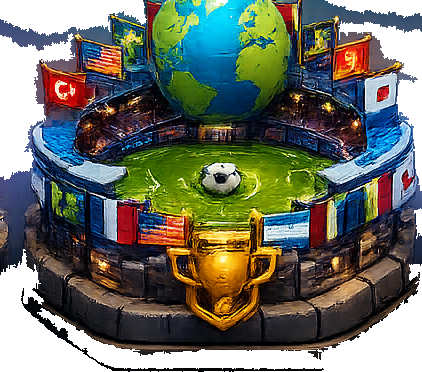
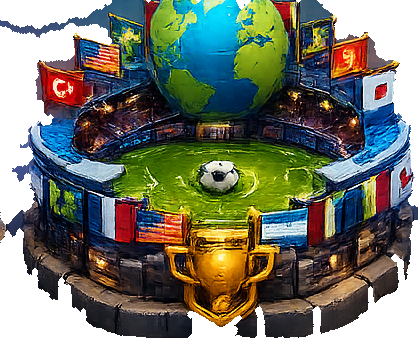
ui: de-halo arena cutouts + tighter shadow; stronger cross-hatch bg pattern
- Re-cut arenas with 2px edge erosion → no grey halo / "uncut photo" ring
- Arena shadow: tight contact ellipse (not a big haze behind)
- Background: visible diamond cross-hatch pattern (CR-like)

diff --git a/app/src/screens.tsx b/app/src/screens.tsx
@@ -219,8 +219,9 @@ export function ScreenBg() {
             <Stop offset="0.5" stopColor="#0F1A3C" />
             <Stop offset="1" stopColor="#0A1330" />
           </SvgGradient>
-          <Pattern id="diag" patternUnits="userSpaceOnUse" width={48} height={48} patternTransform="rotate(45)">
-            <Line x1={0} y1={0} x2={0} y2={48} stroke="#5C7AC8" strokeWidth={3} opacity={0.05} />
+          <Pattern id="diag" patternUnits="userSpaceOnUse" width={46} height={46} patternTransform="rotate(45)">
+            <Line x1={0} y1={0} x2={0} y2={46} stroke="#6E8CD8" strokeWidth={2} opacity={0.08} />
+            <Line x1={0} y1={0} x2={46} y2={0} stroke="#6E8CD8" strokeWidth={2} opacity={0.08} />
           </Pattern>
         </Defs>
         <Rect x="0" y="0" width="100%" height="100%" fill="url(#screenbg)" />
@@ -940,9 +941,9 @@ function ArenaCrest({ arena, trophies, onPress }: { arena: { name: string; icon:
   const ty = breathe.interpolate({ inputRange: [0, 1], outputRange: [0, -5] });
   return (
     <Pressable onPress={onPress} style={{ marginVertical: 6, alignItems: 'center' }}>
-      {/* Floating cut-out arena (square, 2.5D top-view) with a full soft ground shadow */}
+      {/* Floating cut-out arena (square, 2.5D top-view) with a tight contact shadow */}
       <View style={{ alignItems: 'center', justifyContent: 'flex-end' }}>
-        <View pointerEvents="none" style={{ position: 'absolute', bottom: 14, width: 150, height: 30, borderRadius: 15, backgroundColor: '#000', opacity: 0.4, shadowColor: '#000', shadowOpacity: 0.6, shadowRadius: 16, shadowOffset: { width: 0, height: 6 }, transform: [{ scaleX: 1.25 }] }} />
+        <View pointerEvents="none" style={{ position: 'absolute', bottom: 16, width: 96, height: 13, borderRadius: 7, backgroundColor: '#000', opacity: 0.3, transform: [{ scaleX: 1.3 }] }} />
         <Animated.Image
           source={tier.img}
           resizeMode="contain"
